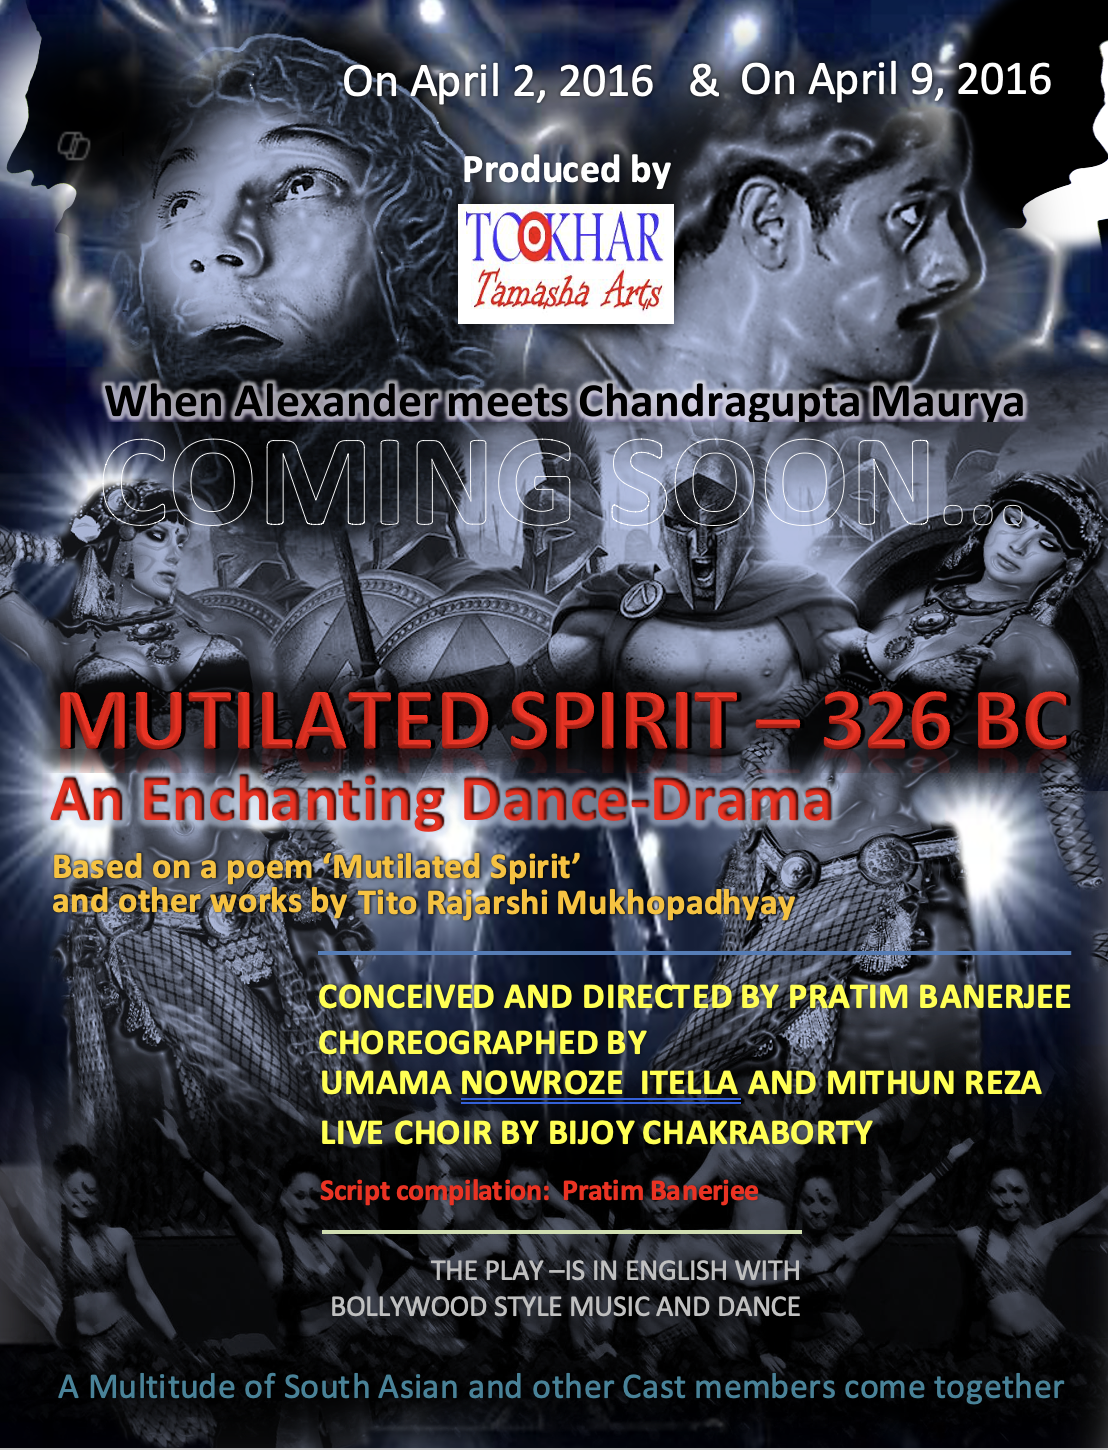
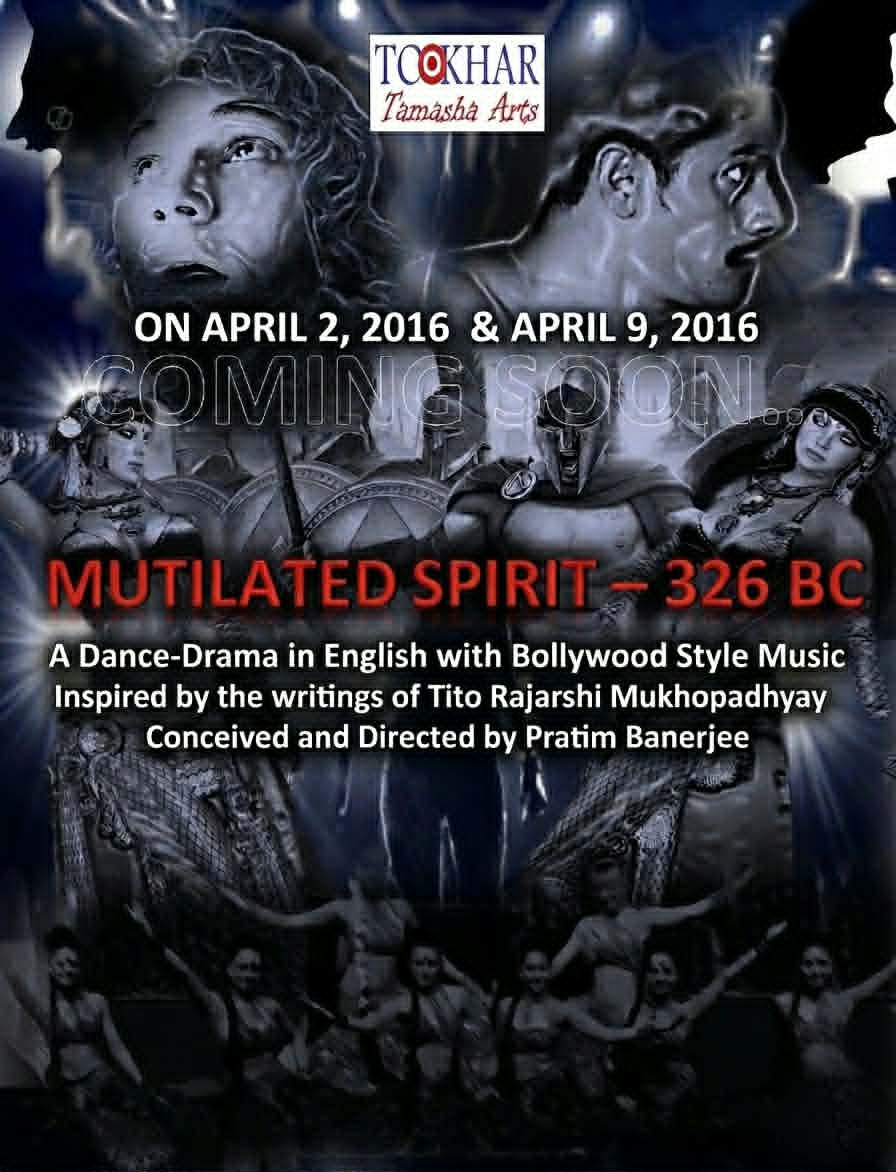
fixed mobile gallery

diff --git a/src/Components/Gallery/Gallery.scss b/src/Components/Gallery/Gallery.scss
@@ -1,39 +1,29 @@
 
-// h3{
+// h3 {
 //   color: wheat;
 // }
+
 // .gallery {
-//   // display: flex;
-//   justify-content: center;
-//   align-items: center;
 //   padding: 20px;
 //   margin: 2px;
-//     overflow: hidden;
-
+//   overflow: hidden;
 // }
 
 // .gallery-content {
-//   width: auto;
 //   display: flex;
-//   // justify-content: center;
-//   // align-items: center;
-//   overflow: scroll;
+//   overflow-x: auto;
 //   overflow-y: hidden;
-//   // white-space: nowrap;
 //   padding: 2px;
-  
-//   // -webkit-overflow-scrolling: touch;
+//   scroll-behavior: smooth;
 
 //   // &::-webkit-scrollbar {
-//   //   display: none;
+//   //   display: none; // hides scrollbar in webkit browsers
 //   // }
 // }
 
 // .gallery-item {
 //   flex: 0 0 auto;
-//   margin: 20px;
-//   cursor: pointer;
-//   transition: transform 0.3s ease-in-out;
+//   margin: 10px;
 
 //   img {
 //     max-height: 400px;
@@ -41,19 +31,7 @@
 //     object-fit: cover;
 //     border-radius: 10px;
 //   }
-
-//   &.enlarged {
-//     position: fixed;
-//     top: 50%;
-//     left: 50%;
-//     transform: translate(-50%, -50%) scale(1.5);
-//     z-index: 10;
-//     background: rgba(0, 0, 0, 0.8);
-//     padding: 10px;
-//     border-radius: 10px;
-//   }
 // }
-
 h3 {
   color: wheat;
 }
@@ -73,8 +51,7 @@ h3 {
 
   // &::-webkit-scrollbar {
   //   display: none; // hides scrollbar in webkit browsers
-  // }
-}
+  //  }
 
 .gallery-item {
   flex: 0 0 auto;
@@ -87,3 +64,15 @@ h3 {
     border-radius: 10px;
   }
 }
+
+@media (max-width: 768px) {
+  .gallery-item img {
+    max-height: 400px;
+  }
+}
+
+@media (max-width: 480px) {
+  .gallery-item img {
+    max-height: 300px;
+  }
+}}

diff --git a/src/Components/Gallery/Gallery.jsx b/src/Components/Gallery/Gallery.jsx
@@ -1,7 +1,6 @@
 
 import img1 from '../../Assets/Images/The Sun King 1st Poster.png';
 import img2 from '../../Assets/Images/Screen Shot 2019-02-18 at 12.46.05 AM.png';
-import img3 from '../../Assets/Images/Screenshot 2025-07-16 at 1.07.29 PM.png';
 import img4 from '../../Assets/Images/Screenshot 2025-07-19 at 5.51.15 PM.png';
 import img5 from '../../Assets/Images/Screenshot 2025-07-19 at 7.56.57 AM.png';
 import img6 from '../../Assets/Images/Screenshot 2025-07-16 at 12.39.35 PM.png';
@@ -18,7 +17,7 @@ import img14 from '../../Assets/Images/Screenshot 2025-08-03 at 8.01.22 PM.png
 import './Gallery.scss';
 
 const images = [
-  img1, img2, img3, img4,
+  img1, img2, img4,
   img5, img6, img7, img8, 
   img9, img10, img11, img12, 
   img13, img14

diff --git a/src/Components/Footer/Footer.scss b/src/Components/Footer/Footer.scss
@@ -1,7 +1,10 @@
+@import "../../Styles/colors";
+@import "../../Styles/mixins";
+@import "../../Styles/variables";
 
 .footer{
   background: linear-gradient(90deg, rgb(13, 14, 15) 0%, rgb(212, 45, 30) 50%, rgb(226, 126, 72) 100%);
-  padding: 10px 20px; // Adjust padding as needed
+  padding: 10px 20px;
     z-index: 100;
   width: 100%;
   margin: 0;
@@ -13,6 +16,12 @@
       p{
         color: #ffffff;
       }
+   @include mobile {
+    flex-direction: column;
+     align-items: center;
+      justify-content:center;
+    }
+
     }
   
 
